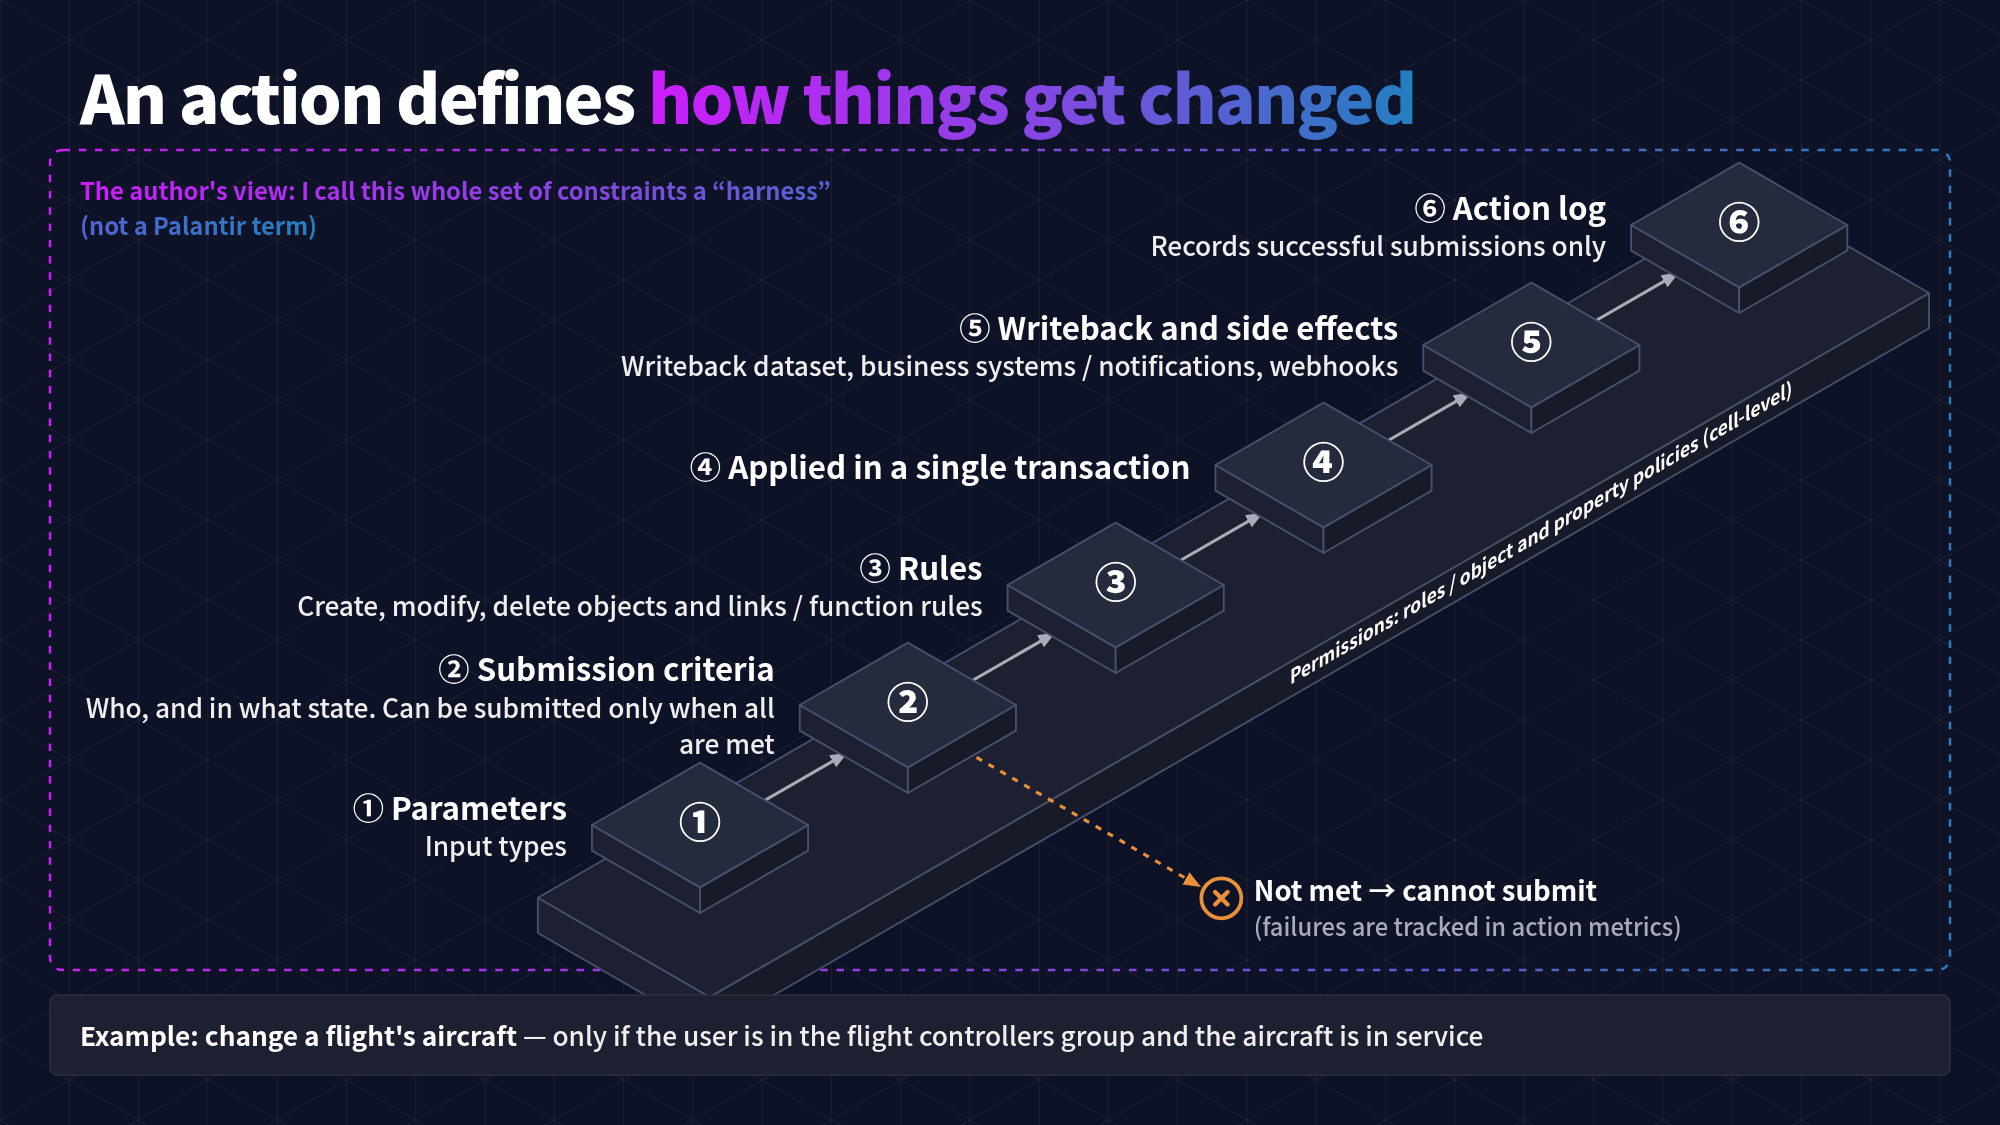
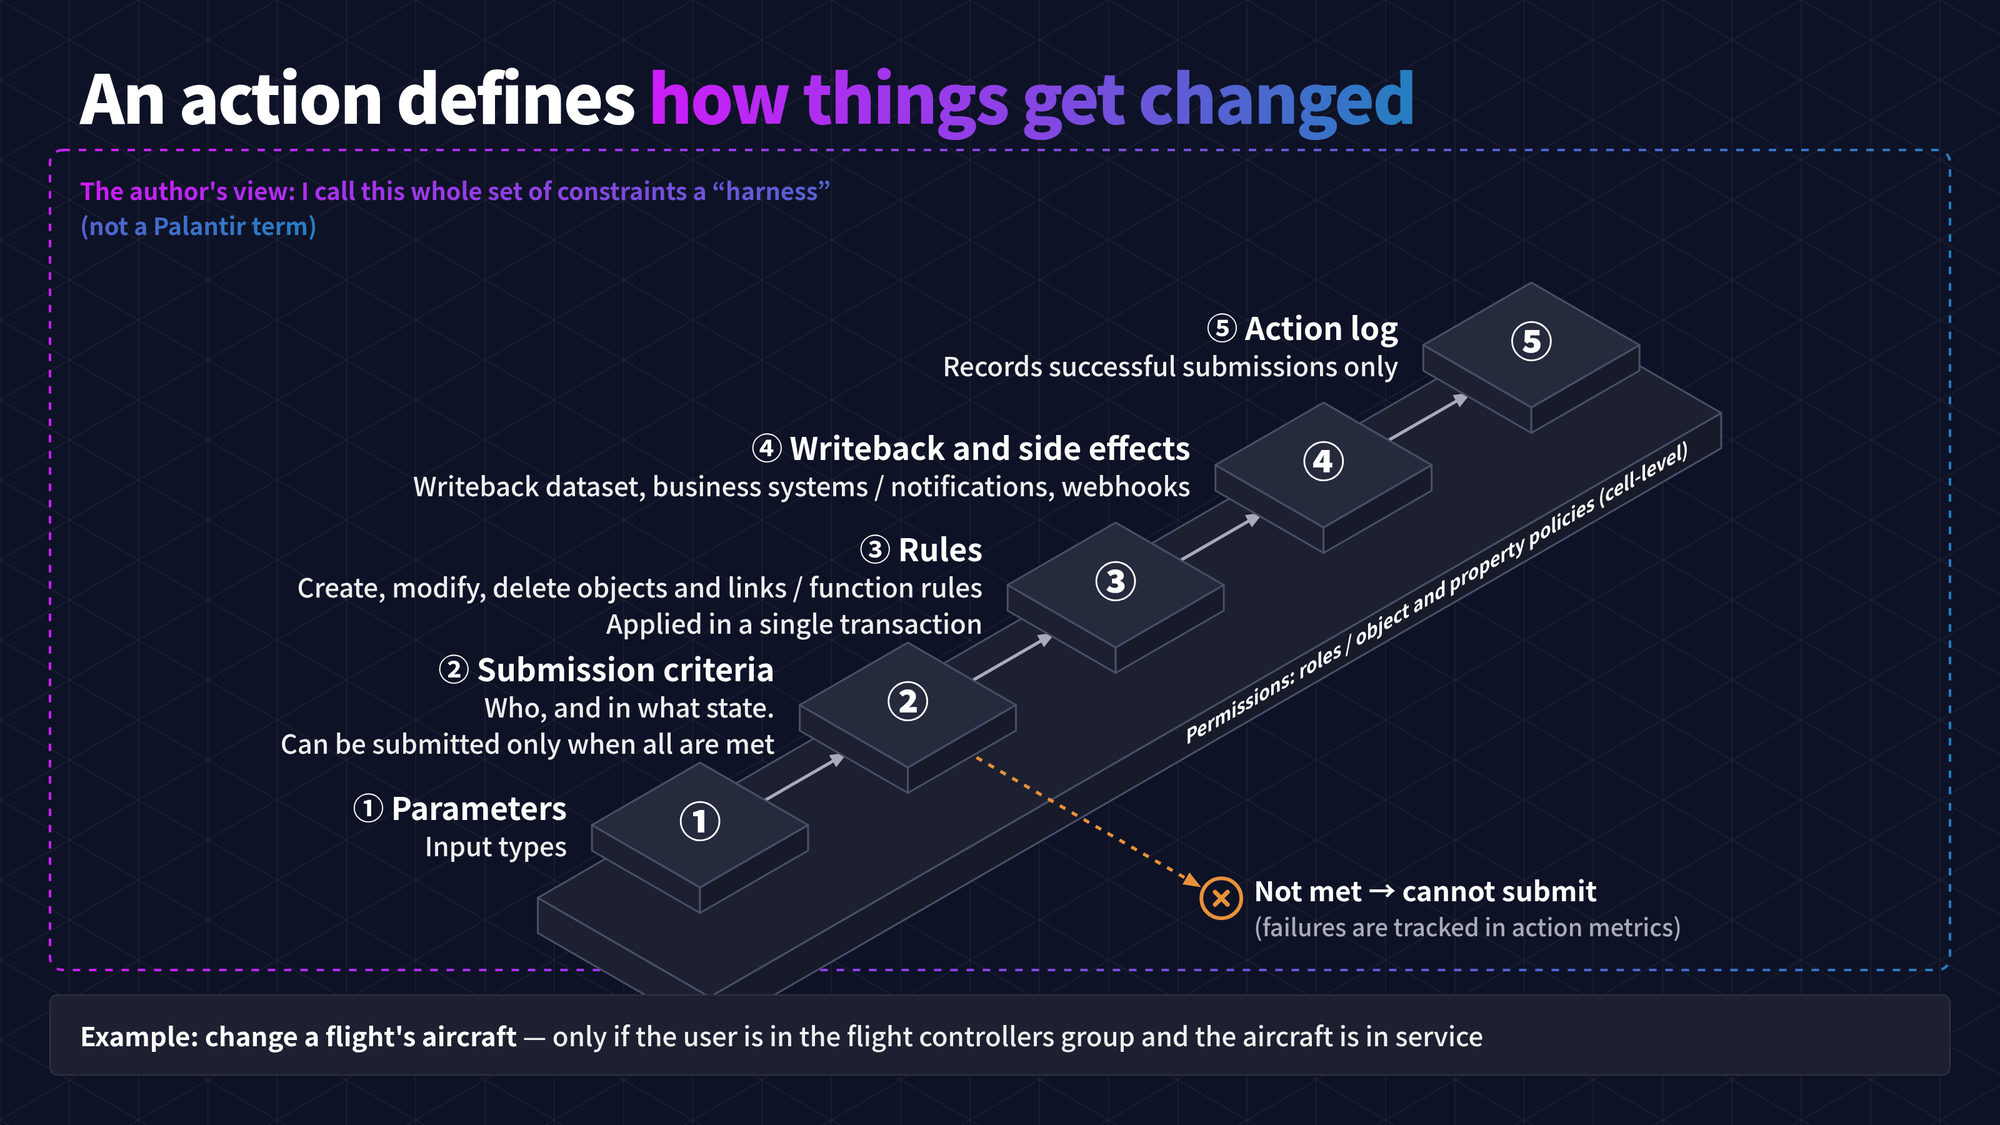
Techblog EN figs 4/6/7 aligned with article: 5 steps, check_plan before approval, no Experiment II number

diff --git a/2026-11-16/zenn-ontology/en/figures/src/zfig6.html b/2026-11-16/zenn-ontology/en/figures/src/zfig6.html
@@ -1,0 +1,55 @@
+<!doctype html><html><head><meta charset="utf-8"><link rel="stylesheet" href="zkit.css"></head>
+<body><div id="stage"><svg id="fig" width="1600" height="900" viewBox="0 0 1600 900"></svg></div>
+<script src="iso.js"></script><script src="zlib.js"></script><script>
+// 図6 提案はAI、承認は人 — labels verbatim from figure_brief.md (pivot-live-studio: ontology.json / agent.mjs / engine.mjs)
+Z.setup({ unit: 100, origin: [0, 0] });
+const { P, box, line, el, text, plate } = Iso;
+Z.title('AI proposes, <span class="g">humans approve</span>');
+// ---- flow column (right) ----
+const FU = 100, FT = 0.9, FTH = 0.16, FP = 1.35, FX = 880, FY = 205;
+{ const [cx, cy] = P(0, 0, FTH); Iso.shift(FX - cx, FY - cy); }
+const FLOW = [
+  ['Change plan (proposal)', 'propose_rebooking', ''],
+  ['Pre-approval check', 'check_plan', 'Conditions and freshness. Then waits for approval'],
+  ['Human approval', 'approve_plan', 'Production lead only. Not among the agent\'s tools'],
+  ['Commit', 'commit_rebooking', 'Re-checks approval and premises,<br>then applies in one transaction'],
+  ['Audit record', '', 'Keeps both successes and refusals'],
+];
+for (let k = 0; k < 4; k++) line([[k * FP + FT / 2, k * FP, FTH / 2], [(k + 1) * FP, k * FP, FTH / 2], [(k + 1) * FP, (k + 1) * FP - FT / 2 - 0.05, FTH / 2]], { stroke: 'var(--link)', sw: 2.5, arrow: true });
+const F = FLOW.map(([name, code, desc], k) => {
+  const x = k * FP, y = k * FP, h = FT / 2;
+  box(x - h, y - h, FT, FT, FTH, 0);
+  const c = P(x, y, FTH), lv = P(x - h, y + h, FTH), rv = P(x + h, y - h, FTH);
+  Z.at('', `<div style="font-weight:700;font-size:26px;color:var(--ink);line-height:1.3">${name}${code ? ` <span style="color:var(--sub);font-weight:500">—</span> <span class="mono" style="font-size:21px;color:var(--ink)">${code}</span>` : ''}</div>` +
+    (desc ? `<div style="font-weight:500;font-size:21px;color:var(--body);line-height:1.4">${desc}</div>` : ''), rv[0] + 28, c[1], { w: 600 });
+  return { c, lv, rv };
+});
+// human icon on the approval tile
+{ const [hx, hy] = F[2].c; el('circle', { cx: hx, cy: hy - 14, r: 9, fill: 'none', stroke: 'var(--ink)', 'stroke-width': 2.5 });
+  el('path', { d: `M${hx - 17},${hy + 14} Q${hx - 17},${hy - 2} ${hx},${hy - 2} Q${hx + 17},${hy - 2} ${hx + 17},${hy + 14}`, fill: 'none', stroke: 'var(--ink)', 'stroke-width': 2.5 }); }
+// rework loop: 実行前の検査 → back to 変更案 (dotted)
+{ const [x3, y3] = F[3].lv, [x1, y1] = F[0].lv, vx = x1 - 60;
+  el('polyline', { points: `${x3 - 8},${y3} ${vx},${y3 - (x3 - 8 - vx) * 0.577} ${vx},${y1 + (x1 - 8 - vx) * 0.577} ${x1 - 8},${y1}`, fill: 'none', stroke: 'var(--sub)', 'stroke-width': 2, 'stroke-dasharray': '4 6', 'marker-end': 'url(#ah)' });
+  Z.at('sub', 'Premises changed →<br>can\'t commit →<br>redo the plan', vx - 16, (y1 + y3) / 2 + 60, { w: 230, a: 'r', style: { color: 'var(--sub)' } });
+}
+// ---- agent + ontology plate (left) ----
+Iso.init({ theme: Z.theme, unit: 72, origin: [0, 0] });
+const ZA = 2.7, AT = 2.2;
+const tv = F[0].lv, ax = 440, ay = tv[1] + (tv[0] - ax) * 0.577;   // agent right vertex on the 30° line to 変更案
+{ const [rx, ry] = P(0.6 + AT, 0.6, ZA + 0.3); Iso.shift(ax - rx, ay - ry); }
+plate(0, 0, 3.4, 3.4, 0);
+const RD = [[0.75, 2.65, 'ontology_schema'], [1.4, 2.0, 'search_objects'], [2.0, 1.4, 'traverse_graph'], [2.65, 0.75, 'get_object']];
+for (const [x, y, nm] of RD) {
+  line([[x, y, 0], [x, y, ZA]], { stroke: 'var(--link)', sw: 1.5, arrow: true });
+  const [lx, ly] = P(x, y, ZA * 0.27);
+  const t = el('text', { x: lx - 8, y: ly, transform: `rotate(-90 ${lx - 8} ${ly})`, class: 't-mono', 'font-size': 16, 'text-anchor': 'middle' }); t.textContent = nm;
+}
+box(0.6, 0.6, AT, AT, 0.3, ZA, { topStroke: 'url(#pv)', topSw: 3.5, stroke: 'var(--edge)' });
+text('LLM agent', [1.7, 1.7, ZA + 0.3], { cls: 't-jpb', size: 27, dy: -13 });
+text('(Codex)', [1.7, 1.7, ZA + 0.3], { cls: 't-sub', size: 20, dy: 17 });
+Z.sline(ax + 6, ay - 3.5, tv[0] - 10, tv[1] + 5.8, { stroke: 'var(--link)', sw: 2.5, arrow: true });
+{ const [px, py] = P(0, 3.4, 0); Z.at('lab', 'Ontology<br><span class="subc">(definitions of types, relationships, actions)</span>', 64, py + 96, { w: 560 }); }
+Z.at('sub', 'Conditions for execution and who approves are bound by server-side definitions, not by the prompt', 64, 846, { w: 1200, style: { color: 'var(--ink)', fontWeight: 700, fontSize: '20px' } });
+Z.fict('Fictional data. No Palantir products are used');
+Z.done();
+</script></body></html>

diff --git a/2026-11-16/zenn-ontology/en/figures/src/zfig7.html b/2026-11-16/zenn-ontology/en/figures/src/zfig7.html
@@ -1,0 +1,46 @@
+<!doctype html><html><head><meta charset="utf-8"><link rel="stylesheet" href="zkit.css"></head>
+<body><div id="stage"><svg id="fig" width="1600" height="900" viewBox="0 0 1600 900"></svg></div>
+<script src="iso.js"></script><script src="zlib.js"></script><script>
+// 図7 効くのは、まず知識を渡すこと — values from pivot-ontology-basis paper/frags/frag-abstract.html via figure_brief.md (do not change)
+Z.setup({ unit: 100, origin: [800, 450] });
+const { el } = Iso;
+Z.title('What helps first is <span class="g">providing knowledge</span>');
+// chart panel (hides the lattice inside the chart area)
+Z.rect(40, 140, 1520, 640, { fill: 'var(--panel)', stroke: 'var(--line)', sw: 1, rx: 8 });
+const X0 = 730, PXPT = 14.8, xv = v => X0 + v * PXPT;   // 0..50 pt → 730..1470
+const T0 = 196, pitch = 118, bh = 50, axisY = T0 + 4 * pitch - 10;
+// ticks + faint vertical guides
+for (let v = 0; v <= 50; v += 10) {
+  el('line', { x1: xv(v), y1: T0 - 30, x2: xv(v), y2: axisY, stroke: v === 0 ? 'var(--sub)' : 'var(--line)', 'stroke-width': v === 0 ? 2 : 1 });
+  Z.at('sub', String(v), xv(v), axisY + 22, { w: 60, a: 'c', style: { color: 'var(--sub)', fontSize: '20px' } });
+}
+Z.at('sub', 'Points (difference vs. no knowledge, or vs. plain text)', (xv(0) + xv(50)) / 2, axisY + 62, { w: 800, a: 'c', style: { color: 'var(--sub)', fontSize: '20px' } });
+const grey = Z.theme === 'dark' ? '#6E7287' : '#A3A6B4', bandC = Z.theme === 'dark' ? '#C9CCD8' : '#4A4E62';
+const rows = [
+  { name: 'Whether knowledge is provided' },
+  { name: 'Same knowledge in ontology form<br>(high difficulty, main analysis)' },
+  { name: 'Same (conservative re-analysis)' },
+  { name: 'Procedural work (Experiment II)' },
+];
+rows.forEach((r, i) => {
+  const y = T0 + i * pitch;
+  Z.at('', `<div style="font-weight:700;font-size:25px;color:var(--ink);line-height:1.3">${r.name}</div>`, X0 - 30, y + bh / 2, { w: 640, a: 'r' });
+});
+// bar 1: band 25.7–49.3 (0–25.7 faint)
+{ const y = T0; el('rect', { x: xv(0), y, width: xv(25.7) - xv(0), height: bh, fill: bandC, opacity: 0.22 });
+  el('rect', { x: xv(25.7), y, width: xv(49.3) - xv(25.7), height: bh, fill: bandC });
+  Z.at('', `<span style="font-weight:900;font-size:26px;color:var(--bg)">+25.7 to +49.3</span>`, (xv(25.7) + xv(49.3)) / 2, y + bh / 2, { w: 300, a: 'c' }); }
+// bar 2: +2.3 (gradient — the one focus)
+{ const y = T0 + pitch; el('linearGradient', { id: 'barg', x1: 0, x2: 1, y1: 0, y2: 0 }, document.querySelector('#fig defs'));
+  const g = document.getElementById('barg'); [['0', '#CD1DFB'], ['0.5', '#8745E3'], ['1', '#237FC0']].forEach(([o, c]) => el('stop', { offset: o, 'stop-color': c }, g));
+  el('rect', { x: xv(0), y, width: xv(2.3) - xv(0), height: bh, fill: 'url(#barg)' });
+  Z.at('', '<span style="font-weight:900;font-size:27px" class="g">+2.3 (significant)</span>', xv(2.3) + 16, y + bh / 2, { w: 400 }); }
+// bar 3: about +2.0 (grey)
+{ const y = T0 + 2 * pitch; el('rect', { x: xv(0), y, width: xv(2.0) - xv(0), height: bh, fill: grey });
+  Z.at('', '<span style="font-weight:700;font-size:24px;color:var(--body)">≈ +2.0 (not significant after correction)</span>', xv(2.0) + 16, y + bh / 2, { w: 620 }); }
+// row 4: no value shown (the article gives no number for Experiment II)
+{ const y = T0 + 3 * pitch;
+  Z.at('', '<span style="font-weight:700;font-size:25px;color:var(--body)">The form made no difference</span>', xv(0) + 16, y + bh / 2, { w: 500 }); }
+Z.at('sub', 'Unpublished, not peer-reviewed. Results from a single fictional business. Analysis covers 2,117 runs', 64, 822, { w: 1400, style: { color: 'var(--sub)', fontSize: '20px' } });
+Z.done();
+</script></body></html>

diff --git a/2026-11-16/zenn-ontology/en/figures/src/zfig4.html b/2026-11-16/zenn-ontology/en/figures/src/zfig4.html
@@ -1,0 +1,44 @@
+<!doctype html><html><head><meta charset="utf-8"><link rel="stylesheet" href="zkit.css"></head>
+<body><div id="stage"><svg id="fig" width="1600" height="900" viewBox="0 0 1600 900"></svg></div>
+<script src="iso.js"></script><script src="zlib.js"></script><script>
+// 図4 アクションは「動かし方」の定義 — labels verbatim from figure_brief.md (Foundry action-types docs)
+const U = 128, ZT = 0.55, T = 0.78, TH = 0.16, STEP = 1.5, Y0 = 7.5;
+Z.setup({ unit: U, origin: [0, 0] });
+const { P, box, line, el, text, faceText } = Iso;
+{ const [cx, cy] = P(0, Y0, ZT + TH); Iso.shift(560 - cx, 660 - cy); }
+Z.title('An action defines <span class="g">how things get changed</span>');
+// outer frame (author's view) — the only gradient line besides the title
+Z.rect(40, 120, 1520, 656, { dash: '6 7', sw: 2, rx: 10 });
+Z.at('nt', '<span class="g" style="font-weight:700;font-size:19px;line-height:1.45">The author\'s view: I call this whole set of constraints a “harness”<br>(not a Palantir term)</span>', 64, 138, { w: 720, v: 't' });
+// permission rail under the staircase
+const RY0 = Y0 - 4 * STEP - 0.75, RY1 = Y0 + 0.55;
+box(-0.62, RY0, 1.24, RY1 - RY0, 0.22, 0, { top: 'var(--panel)' });
+faceText('Permissions: roles / object and property policies (cell-level)', [0.62, (RY0 + RY1) / 2 - 1.6, 0.11], 'R', { cls: 't-jp', size: 16 });
+// support posts (tile → rail), thin
+const STEPS = [
+  ['① Parameters', 'Input types'],
+  ['② Submission criteria', 'Who, and in what state.<br>Can be submitted only when all are met'],
+  ['③ Rules', 'Create, modify, delete objects and links / function rules<br>Applied in a single transaction'],
+  ['④ Writeback and side effects', 'Writeback dataset, business systems / notifications, webhooks'],
+  ['⑤ Action log', 'Records successful submissions only'],
+];
+const ys = STEPS.map((_, k) => Y0 - k * STEP);
+for (let k = 0; k < 4; k++) line([[0, ys[k] - T / 2 - 0.02, ZT + TH / 2], [0, ys[k + 1] + T / 2 + 0.06, ZT + TH / 2]], { stroke: 'var(--link)', sw: 2.5, arrow: true });
+// rejection branch from ②
+const ry = ys[1];
+line([[T / 2 + 0.02, ry, ZT + TH / 2], [2.1, ry, ZT + TH / 2]], { stroke: 'var(--deny)', sw: 2.5, dash: '5 6', arrow: true });
+STEPS.forEach(([name, desc], k) => {
+  const y = ys[k];
+  box(-T / 2, y - T / 2, T, T, TH, ZT);
+  text(String.fromCharCode(0x2460 + k), [0, y, ZT + TH], { cls: 't-jpb', size: 34, dy: 1 });
+  const [lx, ly] = P(-T / 2, y + T / 2, ZT + TH);  // left vertex of tile top
+  Z.at('', `<div style="font-weight:700;font-size:25px;color:var(--ink);line-height:1.3">${name}</div>` + (desc ? `<div style="font-weight:500;font-size:21px;color:var(--body);line-height:1.4">${desc}</div>` : ''),
+    lx - 20, ly, { w: Math.min(640, lx - 84), a: 'r' });
+});
+{ const [ex, ey] = P(2.1, ry, ZT + TH / 2); Z.cross(ex + 18, ey + 10, 10);
+  Z.at('', '<div style="font-weight:700;font-size:22px;color:var(--ink)">Not met → cannot submit</div><div style="font-weight:500;font-size:19px;color:var(--sub)">(failures are tracked in action metrics)</div>', ex + 44, ey + 10, { w: 500 }); }
+// bottom example band
+Z.rect(40, 796, 1520, 64, { fill: 'var(--panel)', stroke: 'var(--line)', sw: 1, rx: 6 });
+Z.at('sub', '<b style="color:var(--ink)">Example: change a flight\'s aircraft</b> — only if the user is in the flight controllers group and the aircraft is in service', 64, 828, { w: 1460, style: { fontSize: '21px' } });
+Z.done();
+</script></body></html>
